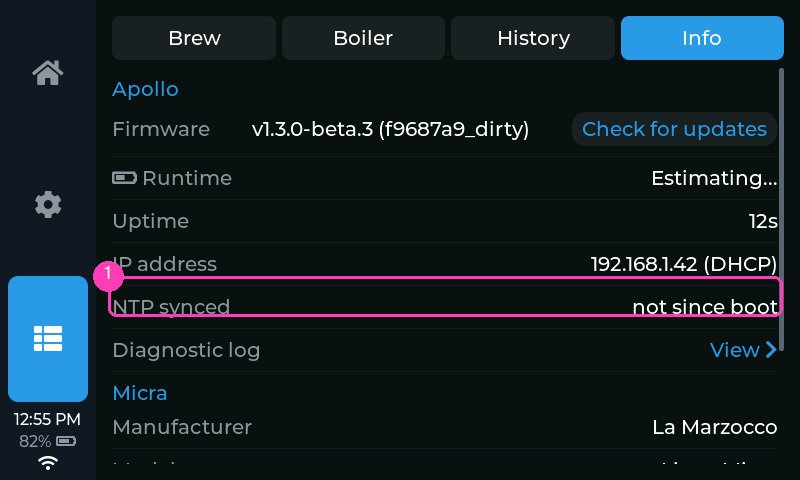
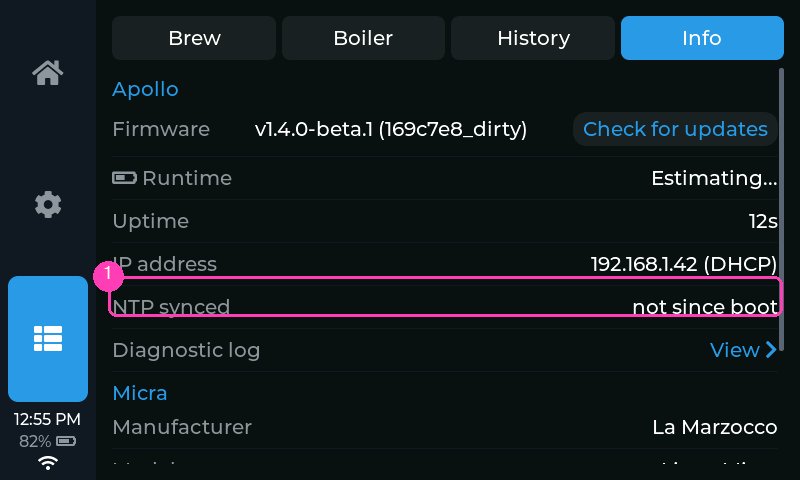
release: v1.4.0-beta.1

Changed region(s): [[0.3125, 0.25, 0.6562, 0.3125], [0.7188, 0.25, 0.9688, 0.2812]]

diff --git a/include/version.h b/include/version.h
@@ -9,7 +9,7 @@
 
 namespace fw {
 
-inline constexpr const char* kVersion = "1.3.0";
+inline constexpr const char* kVersion = "1.4.0-beta.1";
 
 // Release builds prove kVersion == the tag at compile time (build_check.h).
 #ifdef APOLLO_EXPECT_VERSION

diff --git a/CHANGELOG.md b/CHANGELOG.md
@@ -12,13 +12,13 @@ the headings as plain lines); leave out a list that would be empty.
 ## v1.4.0
 
 ### Features
-- **See and reset the learned drip.** Shot settings shows "Learned drip N g" beside Target: what the auto-stop subtracts for the drips that land after the cut. Reset puts it back to 2.0 g after a change of beans or grind, instead of waiting three or four short or long shots for it to catch up.
+- **See and reset the learned drip.** Shot settings shows "Learned drip N g" beside Target: what the auto-stop subtracts for the drips that land after the cut. Reset puts it back to 2.0 g after a change of beans or grind, instead of three or four off shots while it catches up.
 
 ### Fixes
-- **Record follows a dose weighed in stages.** Beans added to a cup that already offered Record, or a few taken back out, now change the offer to the new total. Before, the first pause fixed the dose and a top-up was measured on its own, so Record 8.0 g never became Record 10.0 g.
+- **Record follows a dose weighed in stages.** Beans added to a cup that already offered Record, or a few taken back out, now change the offer to the new total. Before, a top-up was measured on its own, so Record 8.0 g never became Record 10.0 g.
 - **Settings rows line up.** Every settings row is now the same height, so pages that mix switches and steppers are evenly spaced, and seven rows fit a 4.3" or 5" screen without scrolling. Shot settings no longer needs a nudge to reach Container 2.
-- **Scheduled power keeps the button busy as long as a tap does.** A scheduled on, standby or auto-standby showed Working... for 8 s where a tap showed it for 12 s, so a command sent while the link was re-dialling could free the button before the machine had reported. Every power command now uses the same 12 s ceiling.
-- **A recorded dose holds until its shot.** Once you tap Record, the bench card offers nothing more until the shot starts or you tap the chip's ×, so a cup or jug set down in the meantime no longer asks to be recorded. To change a recorded dose, × then Record.
+- **Scheduled power keeps the button busy as long as a tap does.** A scheduled on, standby or auto-standby held Working... for 8 s where a tap held it 12 s, so a command sent during a re-dial could free the button early. Every power command now uses the same 12 s ceiling.
+- **A recorded dose holds until its shot.** Once you tap Record, the bench card offers nothing more until the shot starts or you tap the chip's ×, so a cup or jug set down meanwhile no longer asks to be recorded. To change it, × then Record.
 - **A Lunar or Pyxis sleeps while Apollo is idle.** Those scales stay awake for as long as they are connected, so Apollo now drops the link when the screensaver or setup portal comes up and reconnects when it ends. The Bookoo and a paired Umbra are unchanged.
 
 ## v1.3.0
